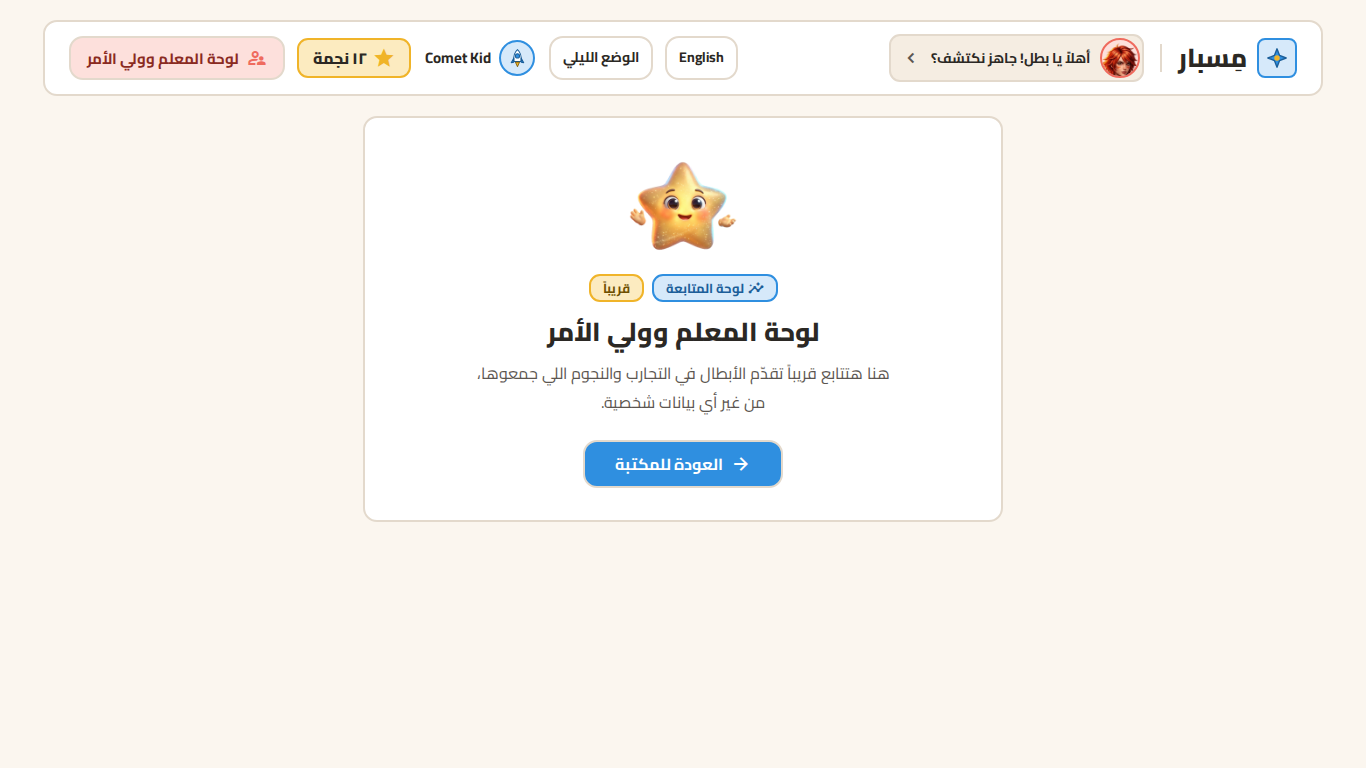
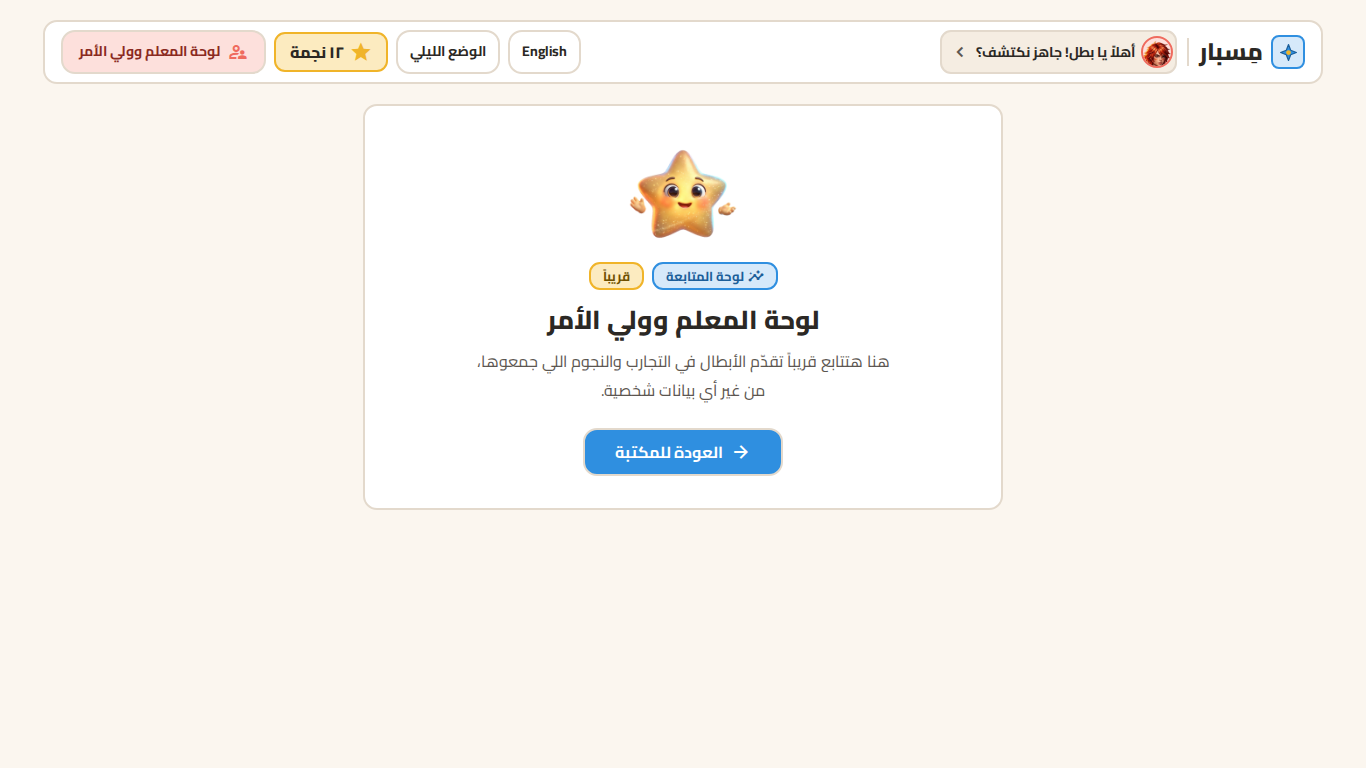
Fix: compact catalog navbar and remove duplicate hero link

Changed region(s): [[0.0307, 0.0312, 0.9839, 0.1562], [0.2767, 0.1875, 0.7379, 0.6875]]

diff --git a/src/components/AppHeader.jsx b/src/components/AppHeader.jsx
@@ -1,32 +1,15 @@
 import LanguageToggle from './LanguageToggle.jsx';
 import { useI18n } from '../i18n/index.jsx';
-import { displayNickname } from '../lib/nickname.js';
 import ThemeToggle from './ThemeToggle.jsx';
-import { buildHash, VIEWS } from '../state/navigation.jsx';
-import { useStudent } from '../state/student.jsx';
-import Avatar from './Avatar.jsx';
 import BrandMark from './BrandMark.jsx';
 import Icon from './Icon.jsx';
 import MascotGreeting from './MascotGreeting.jsx';
 import StarBalance from './StarBalance.jsx';
 import './AppHeader.css';
 
-/**
- * <AppHeader /> — catalog top bar (Stitch Catalog header).
- *
- * Start (right): logo + wordmark, and on wide screens the guide hero's
- *                greeting badge (a link to the hero lobby).
- * End (left):    the student's avatar & nickname (a link to the hero lobby),
- *                star balance, and the "لوحة المعلم وولي الأمر" portal button.
- *
- * @param {object}   props
- * @param {Function} props.onOpenDashboard   called when the portal button is pressed
- * @param {boolean} [props.isDashboardOpen]  marks the button as the current page
- */
+/** Catalog header: one hero-lobby greeting, preferences, stars and dashboard. */
 export default function AppHeader({ onOpenDashboard, isDashboardOpen = false }) {
-  const { student } = useStudent();
   const { t } = useI18n();
-  const nickname = displayNickname(student.nickname, t);
 
   return (
     <header className="app-header">
@@ -39,21 +22,7 @@ export default function AppHeader({ onOpenDashboard, isDashboardOpen = false }) 
       <div className="app-header__end">
         <LanguageToggle />
         <ThemeToggle />
-        {/* Student identity: nickname + geometric avatar only (no personal data).
-            It opens the hero lobby. */}
-        <a
-          className="student-chip"
-          href={buildHash(VIEWS.LOBBY)}
-          title={t('app.lobbyIdentity', { nickname })}
-          aria-label={t('app.lobbyIdentity', { nickname })}
-        >
-          <Avatar avatarId={student.avatarId} size={36} />
-          <span className="student-chip__name">{nickname}</span>
-        </a>
-
-        {/* Star balance — reward colour family. */}
         <StarBalance />
-
         <button
           type="button"
           id="open-dashboard"

diff --git a/src/components/AppHeader.css b/src/components/AppHeader.css
@@ -6,9 +6,9 @@
   display: flex;
   align-items: center;
   justify-content: space-between;
-  gap: 12px;
-  min-height: 76px;
-  padding: 12px 24px;
+  gap: 10px;
+  min-height: 64px;
+  padding: 8px 16px;
   background-color: var(--surface-card);
   border: var(--border);
   border-radius: var(--radius);
@@ -23,7 +23,7 @@
 }
 
 .app-header__end {
-  gap: 12px;
+  gap: 8px;
 }
 
 .app-header__divider {
@@ -173,20 +173,30 @@
 
 /* Keep the same hero-lobby greeting visible at every width. */
 .app-header__greeting { display: flex; min-width: 0; }
-@media (max-width: 1199px) {
+@media (max-width: 1023px) {
   .app-header__start { flex: 1 1 100%; flex-wrap: wrap; justify-content: space-between; }
   .app-header__end { width: 100%; justify-content: flex-end; }
 }
 @media (max-width: 480px) {
-  .app-header__greeting { flex: 1 1 100%; justify-content: flex-start; }
+  .app-header__greeting { flex: 1 1 0; justify-content: flex-start; }
   .app-header__end { justify-content: space-between; }
 }
 
 /* English desktop: shrink the greeting before dropping all actions to a row. */
-@media (min-width: 1200px) {
+@media (min-width: 1024px) {
   [dir='ltr'] .app-header { flex-wrap: nowrap; }
   [dir='ltr'] .app-header__start { flex: 1 1 0; }
   [dir='ltr'] .app-header__start .brand { flex-shrink: 0; }
   [dir='ltr'] .app-header__greeting { flex: 0 1 auto; }
   [dir='ltr'] .app-header__end { flex: 0 1 auto; justify-content: flex-end; }
 }
+
+/* Compact catalog branding only; game/lab headers and touch targets stay intact. */
+.app-header__start { gap: 10px; }
+.app-header .brand { gap: 8px; }
+.app-header .brand__mark { width: 34px; height: 34px; }
+.app-header .brand__mark svg { width: 19px; height: 19px; }
+.app-header .brand__word { font-size: 24px; }
+.app-header__greeting { gap: 6px; padding-inline: 2px 8px; }
+.app-header__greeting .hero-avatar { width: 32px; height: 32px; }
+.app-header .teacher-btn { font-size: 14px; }

diff --git a/STATUS.md b/STATUS.md
@@ -41,3 +41,13 @@ User follow-up2026-11-17: fix English header shown in supplied screenshot. Publi
 English follow-up implementation: added only LTR desktop(min1200px)flex rules in AppHeader.css to shrink the greeting before wrapping the action group, keep the brand unshrunk and actions right-aligned. No Arabic selectors, mobile rules, spacing/colors/fonts/text/assets/dependencies changed. Pending build/QA before a normal follow-up main push.
 
 English follow-up VERIFIED: buildpassed;24targeted bilingual/theme/viewport header checks passed; unchangedmatrix192/192,realrewardflow,layout24/24,greeting16/16 passed. Updated16AFTERscreenshots reflectfinalEnglishheader. This is the onlyadditionalapplicationchange explicitly requested after radius-only phase. Normalmainfollow-up push next; finalpublication will use this newverifiedsource instead of earlierdea4fb0.
+
+Englishfollow-up pushednormally to91eb51344bec5b7a0bc75ff803da18699d7b3a09. PhaseC will publishexacttree/buildofthisfinalsource. Post-pushstatusislocal.
+
+Finalpublication submitted for Manuscheckpoint9b49ccc4b513988415a1c359c3882932bd79b7b6, sourceGitHubmain91eb51344bec5b7a0bc75ff803da18699d7b3a09. BothGit trees areexactlyidentical and all16localdistfilesmatch. Correctedbuild uses pinnedfrozeninstallationandVite,without.git. Publiccompletion/browserchecks pending. Thispost-pushstatusupdate islocal and willnotcreateanewunverifiedsourcecommit.
+
+New user follow-up: make navbar/header smaller and remove two controls doingthe samehero-page navigation. Limitchange toAppHeader: retainhero-greetinglink, remove redundantavatar/nicknameherolink, compactbranding/gaps/padding whilepreserving44pxtouchminimum. No newfeatures/pages. CurrentManusdeployment succeeded at9b49cccbut visibilityOWNER; anonymouspublicbrowserredirectstologin. LivechecksNOTverified yet; donotclaimpublicaccess.
+
+Compactnavbar implementation underlatestuserrequest: AppHeaderonly minheight76→64px,padding12×24→8×16px,gapsreduced,brandtile40→34px,word26→24px,heroavatar40→32px; allclicktargetsretain44pxminimum. Removedredundantstudent-chiphero-lobbylink; keptgreetingastheonlyherolink. Responsive1024desktoprow andcompactmobilegreeting avoidextra thirdrow. No otherheaders/sciencelogic/pages/dependencies changed. Pendingtargeted/originalQA. UserrequestedtochoosePublicinthepublishcard; noresponseyet.
+
+Compactnavbar VERIFIED:24targetedchecks passed acrossArabic/English,light/night,desktop/tablet/mobile. Exactlyoneherolobbylink; oldstudentchipremoved; allinteractiveheaderheight/width>=44px. Desktopheader64px; mobile390width~124.8pxhigh vs170pxbefore. Originalmatrix192/192,UI-earnedflow,layout24/24,greeting16/16 passed,0matrixerrors/failedrequests/warnings.16AFTERscreenshots updated. Normalmainpushauthorizedbyoriginalorderedtaskandlatestcompactnavrequest.
